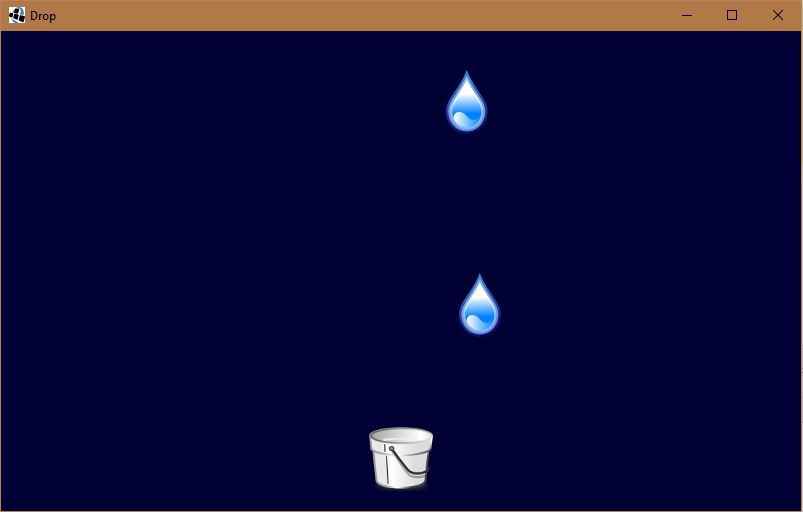
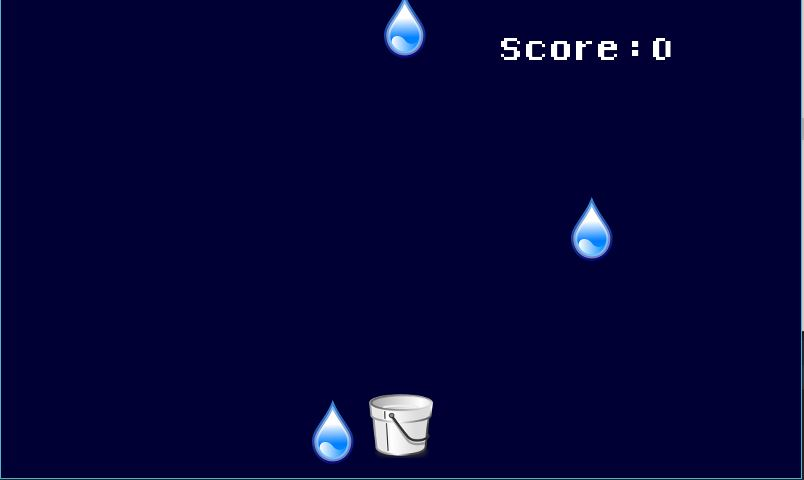
Updated screenshot and readme

diff --git a/README.md b/README.md
@@ -2,6 +2,7 @@
 This is a minimalist game created for both Windows and Android.  
 The game is pretty basic and the goal is to collect rain droplets as they fall.  
 Users can either use a keyboard (arrow keys) or use a mouse (or touchscreen) to move the bucket.  
+Previous versions can be found under releases.  
 <br/>
 ## Getting Started
 __Windows Users__  
@@ -18,11 +19,12 @@ __Android Users__
 - Java [JDK-8](https://www.oracle.com/technetwork/java/javase/downloads/jdk8-downloads-2133151.html) - Language used
 
 ## Versioning
+- Version 1.1 released
 - Version 1.0 released
 
 ## To do list
 - [x] Basic framework
-- [ ] Add Score to Top Right/Left
+- [x] Add Score to Top Right
 - [ ] Add Lives 
 - [ ] Optimize Movement Speed
 - [ ] Make rain speed increase as time passes
